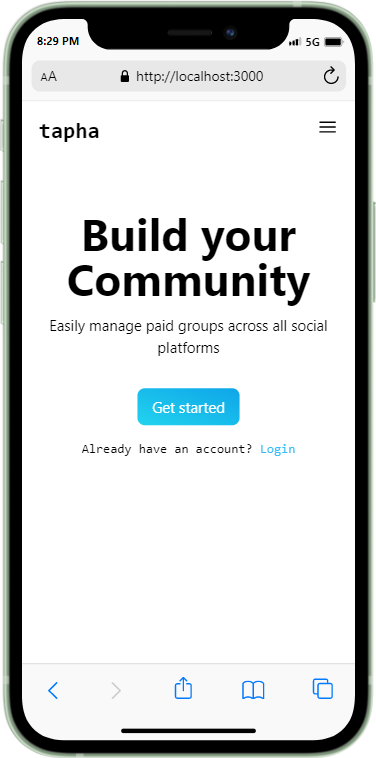
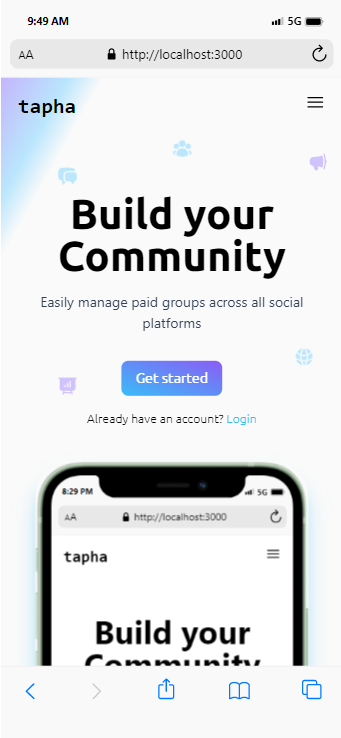
ui changes

diff --git a/src/Home.tsx b/src/Home.tsx
@@ -70,8 +70,8 @@ const Dropdown = ({ onClose }: { onClose: () => void }) => {
         </div>
         <div className=' absolute bottom-[5vh] w-full'>
           <div className='flex flex-col justify-center items-center gap-4' >
-            <button className=' bg-transparent border border-transparent hover:border-violet-400 rounded-lg py-1 px-2 text-sm text-violet-400 h-fit' > Login </button>
-            <button className=' bg-gradient-to-tr from-sky-400 to-violet-500 hover:from-sky-300 hover:to-violet-400 rounded-lg py-1 px-2 text-sm text-white h-fit' > Sign up </button>
+            <button className=' font-ubuntu bg-transparent border border-transparent hover:border-violet-400 rounded-lg py-1 px-2 text-sm text-violet-400 h-fit' > Login </button>
+            <button className=' font-ubuntu bg-gradient-to-tr from-sky-400 to-violet-500 hover:from-sky-300 hover:to-violet-400 rounded-lg py-1 px-2 text-sm text-white h-fit' > Sign up </button>
           </div>
           <p className='text-xs text-center text-black font-ubuntu font-light mt-4'>&copy; tapha.inc {year}</p>
         </div>
@@ -105,8 +105,8 @@ const NavBar = () => {
         <a href='#contact'> contact </a>
       </div>
       <div className='hidden md:flex items-center gap-4' >
-        <button className=' bg-transparent border border-transparent hover:border-violet-400 rounded-lg py-2 px-4 text-sm text-violet-400 h-fit' > Login </button>
-        <button className=' bg-gradient-to-tr from-sky-400 to-violet-500 hover:from-sky-300 hover:to-violet-400 rounded-lg py-2 px-4 text-sm text-white h-fit' > Sign up </button>
+        <button className=' font-ubuntu bg-transparent border border-transparent hover:border-violet-400 rounded-lg py-2 px-4 text-sm text-violet-400 h-fit' > Login </button>
+        <button className=' font-ubuntu bg-gradient-to-tr from-sky-400 to-violet-500 hover:from-sky-300 hover:to-violet-400 rounded-lg py-2 px-4 text-sm text-white h-fit' > Sign up </button>
       </div>
     </nav>
   )
@@ -119,12 +119,12 @@ const Intro = () => {
       <div className='text-center pt-[10vh] pb-[75vw] md:pt-[12.5vw] md:pb-[33vw] px-[5vw]'>
         <h1 className=' font-ubuntu text-5xl md:text-6xl font-bold'>Build your Community</h1>
         <p className=' md:text-xl font-normal my-4 text-slate-700'>Easily manage paid groups across all social platforms </p>
-        <button className='my-4 bg-gradient-to-tr from-sky-400 to-violet-500 hover:from-sky-300 hover:to-violet-400 rounded-lg py-2 px-4 text-white' > Get started </button>
+        <button className=' font-ubuntu my-4 bg-gradient-to-tr from-sky-400 to-violet-500 hover:from-sky-300 hover:to-violet-400 rounded-lg py-2 px-4 text-white' > Get started </button>
         <p className='font-ubuntu text-sm font-light'>Already have an account? <span className='text-sky-400 hover:underline'>Login</span></p>
-        <div className=' absolute left-[10%] md:hidden w-4/5 mt-[10vw] rounded-[2.5rem] shadow-xl shadow-sky-400/50'>
-          <img className='w-full h-auto' src={phone} alt='tapha user dashboard on mobile view' />
+        <div className=' absolute left-[10%] md:hidden w-4/5 mt-[10vw] p-2 bg-slate-300 rounded-[2.5rem] shadow-xl shadow-sky-400/50'>
+          <img className='w-full h-auto rounded-[2.5rem]' src={phone} alt='tapha user dashboard on mobile view' />
         </div>
-        <div className=' absolute left-[10%] hidden md:block w-4/5 mt-[10vw] p-1 bg-slate-300 rounded-2xl shadow-xl shadow-sky-400/50'>
+        <div className=' absolute left-[10%] hidden md:block w-4/5 lg:w-3/4 mt-[10vw] p-1 bg-slate-300 rounded-2xl shadow-xl shadow-sky-400/50'>
           <img className='w-full h-auto rounded-2xl' src={laptop} alt='tapha user dashboard on desktop view' />
         </div>
         <div className='f-icons'>
@@ -214,7 +214,7 @@ const Features = () => {
             <img className=' max-w-full h-auto' src={feature} alt='feature 1' />
             <h3 className=' font-ubuntu text-xl my-4 mr-4'>{title}</h3>
             <p className=' text-sm text-slate-700 pr-4'>{body}</p>
-            <button className=' my-4 bg-gradient-to-tr from-sky-400 to-violet-500 hover:from-sky-300 hover:to-violet-400 rounded-lg py-2 px-4 text-white' >
+            <button className=' font-ubuntu my-4 bg-gradient-to-tr from-sky-400 to-violet-500 hover:from-sky-300 hover:to-violet-400 rounded-lg py-2 px-4 text-white' >
               <span className='mr-1'>Read more</span>
               <svg xmlns="http://www.w3.org/2000/svg" fill="none" viewBox="0 0 24 24" strokeWidth={1.5} stroke="currentColor" className="w-5 h-5 inline-block">
                 <path strokeLinecap="round" strokeLinejoin="round" d="m8.25 4.5 7.5 7.5-7.5 7.5" />
@@ -237,7 +237,7 @@ const Blog = () => {
           Dig into Community Management Strategies! Discover expert insights,
           industry tips, and the latest service updates on our blog.
         </p>
-        <button className='my-4 border border-b-sky-400 border-l-sky-400 border-r-violet-500 border-t-violet-500 text-violet-400 rounded-lg bg-gradient-to-tr hover:from-sky-300 hover:to-violet-400 hover:border-transparent hover:text-white py-2 px-4' >
+        <button className=' font-ubuntu my-4 border border-b-sky-400 border-l-sky-400 border-r-violet-500 border-t-violet-500 text-violet-400 rounded-lg bg-gradient-to-tr hover:from-sky-300 hover:to-violet-400 hover:border-transparent hover:text-white py-2 px-4' >
           Check our blog
         </button>
       </div>
@@ -252,8 +252,8 @@ const CTA = () => {
       <h1 className=' font-ubuntu text-4xl md:text-5xl font-bold'>Start Your Journey Today</h1>
       <p className=' md:text-xl font-normal my-4 text-slate-700'>subscribe to get started and revolutionize your community management.</p>
       <div className='flex items-center gap-4 justify-center' >
-        <button className=' bg-transparent border border-transparent hover:border-violet-400 rounded-lg py-2 px-4 text-violet-400 h-fit' > Login </button>
-        <button className=' bg-gradient-to-tr from-sky-400 to-violet-500 hover:from-sky-300 hover:to-violet-400 rounded-lg py-2 px-4 text-white h-fit' > Sign up </button>
+        <button className=' font-ubuntu bg-transparent border border-transparent hover:border-violet-400 rounded-lg py-2 px-4 text-violet-400 h-fit' > Login </button>
+        <button className=' font-ubuntu bg-gradient-to-tr from-sky-400 to-violet-500 hover:from-sky-300 hover:to-violet-400 rounded-lg py-2 px-4 text-white h-fit' > Sign up </button>
       </div>
 
     </div>
